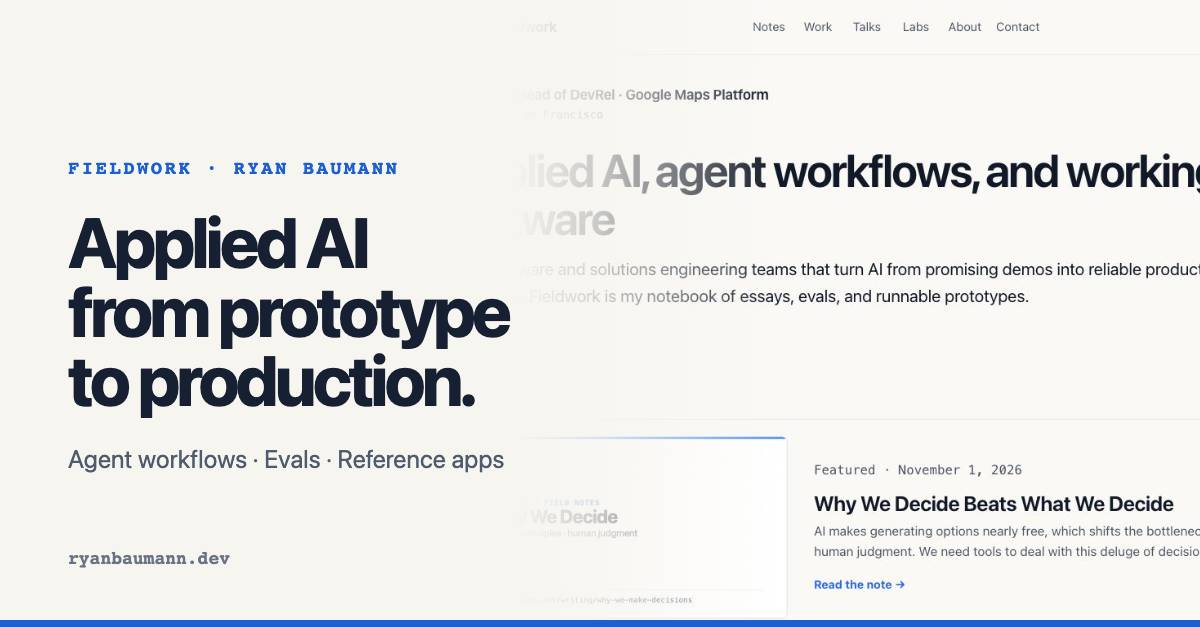
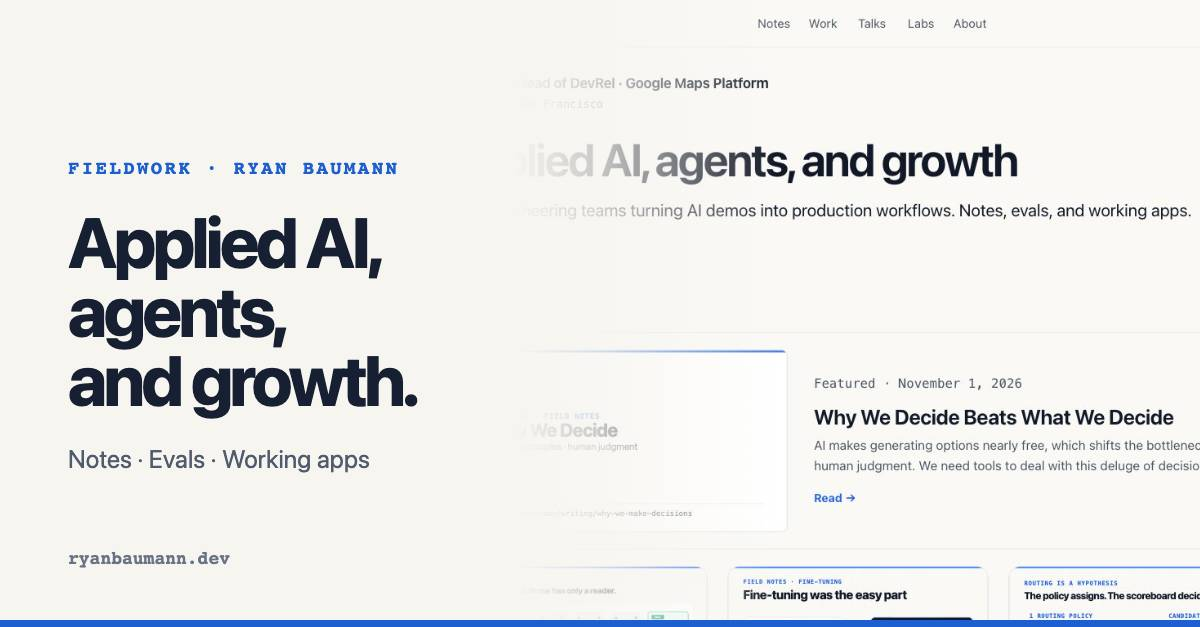
content(portfolio): tighten UI labels and simplify page chrome (#384)

diff --git a/portfolio/style.css b/portfolio/style.css
@@ -39,6 +39,18 @@
 
 * { box-sizing: border-box; }
 
+.sr-only {
+  position: absolute;
+  width: 1px;
+  height: 1px;
+  padding: 0;
+  margin: -1px;
+  overflow: hidden;
+  clip-path: inset(50%);
+  white-space: nowrap;
+  border: 0;
+}
+
 /* ---- skip link ---- */
 
 .skip-link {
@@ -179,7 +191,7 @@ img { max-width: 100%; height: auto; border-radius: 0.6rem; }
   grid-template-columns: auto minmax(0, 1fr) auto;
   align-items: center;
   gap: 0.75rem;
-  padding-block: 0.7rem;
+  padding-block: 0.4rem;
   background: color-mix(in srgb, var(--bg) 92%, transparent);
   backdrop-filter: blur(14px);
   border-bottom: 1px solid color-mix(in srgb, var(--line) 70%, transparent);
@@ -219,19 +231,19 @@ img { max-width: 100%; height: auto; border-radius: 0.6rem; }
 }
 .header-actions { display: flex; align-items: center; justify-content: flex-end; gap: 0.5rem; }
 
-main { padding-block: clamp(0.5rem, 2vw, 1.5rem) 2rem; }
+main { padding-block: clamp(0.5rem, 2vw, 1.25rem) 1.5rem; }
 main > section { margin-bottom: clamp(3rem, 6vw, 5.5rem); }
 
 .site-footer {
   display: flex;
   align-items: center;
   justify-content: space-between;
-  gap: 0.75rem 1rem;
+  gap: 0.5rem 1rem;
   flex-wrap: wrap;
   border-top: 1px solid var(--line);
-  padding-block: 1rem 2rem;
+  padding-block: 0.75rem 1.25rem;
   color: var(--faint);
-  font-size: 0.9rem;
+  font-size: 0.85rem;
 }
 .site-footer > p { margin: 0; }
 .footer-links { display: flex; align-items: center; gap: 0.25rem 0.9rem; flex-wrap: wrap; }
@@ -240,7 +252,7 @@ main > section { margin-bottom: clamp(3rem, 6vw, 5.5rem); }
   align-items: center;
   justify-content: center;
   min-height: 44px;
-  min-width: 28px;
+  min-width: 44px;
   padding-inline: 0.2rem;
   color: var(--muted);
   text-decoration: none;
@@ -475,37 +487,50 @@ main > section { margin-bottom: clamp(3rem, 6vw, 5.5rem); }
 .back a { display: inline-flex; align-items: center; min-height: 44px; text-decoration: none; color: var(--muted); }
 .back a:hover { color: var(--accent-ink); }
 
-/* ---- article colophon / AI disclosure ---- */
+/* ---- article footer (disclosure + share) ---- */
 
-.article-colophon {
-  margin: 2.5rem 0 1rem;
-  padding: 0.85rem 1.1rem;
-  border: 1px solid var(--line);
-  border-radius: 0.65rem;
-  background: var(--surface);
+.article-footer {
+  margin-top: 2rem;
+  padding-top: 1rem;
+  border-top: 1px solid var(--line);
+  display: flex;
+  flex-wrap: wrap;
+  align-items: center;
+  justify-content: space-between;
+  gap: 0.5rem 1.25rem;
 }
 .article-disclosure {
   margin: 0;
-  font-size: 0.86rem;
-  color: var(--muted);
-  line-height: 1.5;
+  font-size: 0.85rem;
+  color: var(--faint);
+  line-height: 1.45;
 }
-
-/* ---- share links ---- */
-
 .share-links {
   display: flex;
   align-items: center;
   flex-wrap: wrap;
-  gap: 0.5rem;
-  margin: 2rem 0 0.5rem;
-  padding-top: 1.5rem;
-  border-top: 1px solid var(--line);
+  gap: 0.75rem;
+  margin: 0;
 }
 .share-label {
   font-size: 0.85rem;
   font-weight: 600;
   color: var(--faint);
+}
+.share-link {
+  display: inline-flex;
+  align-items: center;
+  justify-content: center;
+  min-height: 44px;
+  min-width: 44px;
+  font-size: 0.86rem;
+  font-weight: 600;
+  color: var(--muted);
+  text-decoration: none;
+}
+.share-link:hover {
+  color: var(--accent-ink);
+  text-decoration: underline;
 }
 
 /* ---- email list + comments ---- */
@@ -514,12 +539,13 @@ main > section { margin-bottom: clamp(3rem, 6vw, 5.5rem); }
 .comments {
   width: 100%;
   max-width: var(--prose);
-  margin-top: 2.5rem;
-  padding-top: 1.75rem;
+  margin-top: 1.25rem;
+  padding-top: 1.1rem;
   border-top: 1px solid var(--line);
 }
-.subscribe p { color: var(--muted); max-width: var(--prose); }
-.subscribe-form { display: grid; gap: 0.35rem; margin: 1.1rem 0 0.75rem; }
+.subscribe h2 { font-size: 1.05rem; margin: 0 0 0.65rem; }
+.subscribe p { color: var(--muted); max-width: var(--prose); font-size: 0.9rem; }
+.subscribe-form { display: grid; gap: 0.35rem; margin: 0 0 0.55rem; }
 .subscribe-form label { color: var(--muted); font-weight: 650; font-size: 0.95rem; }
 .subscribe-controls { display: flex; flex-wrap: wrap; gap: 0.6rem; }
 .subscribe-controls input {
@@ -532,12 +558,26 @@ main > section { margin-bottom: clamp(3rem, 6vw, 5.5rem); }
   font: inherit;
   padding: 0.7rem 0.8rem;
 }
-.subscribe .section-note,
-.comments .section-note { margin-bottom: 0; }
+.subscribe .section-note { margin-bottom: 0; font-size: 0.85rem; color: var(--faint); }
+.comments-details summary {
+  display: inline-flex;
+  align-items: center;
+  min-height: 44px;
+  padding-inline: 0.15rem;
+  cursor: pointer;
+  font-weight: 650;
+  font-size: 0.95rem;
+  color: var(--ink);
+  list-style: none;
+}
+.comments-details summary::-webkit-details-marker { display: none; }
+.comments-details summary::before { content: "▸ "; color: var(--faint); margin-right: 0.35rem; }
+.comments-details[open] > summary::before { content: "▾ "; }
+.comments-details summary:hover { color: var(--accent-ink); text-decoration: underline; }
 .comments .giscus,
 .comments .giscus-frame { width: 100%; }
 .comments .giscus-frame { min-height: 0; border: 0; color-scheme: normal; }
-.comments .giscus { margin-top: 1.25rem; }
+.comments .giscus { margin-top: 1rem; }
 
 /* ---- states ---- */
 
@@ -918,7 +958,6 @@ main > section.hero { margin-bottom: clamp(0.5rem, 1.5vw, 1.5rem); }
      12px. The one-line rule is held by padding and min-width, not by
      shrinking type below readable size. Verify at 390px after changing. */
   .site-header nav a { min-width: 0; padding-inline: 0; font-size: clamp(0.75rem, 2.5vw, 0.78rem); }
-  .site-header nav a.nav-contact { display: none; }
   .header-actions { justify-self: end; gap: 0.35rem; }
   .theme-toggle { font-size: 1.1rem; }
   main { padding-top: 0.75rem; }

diff --git a/CHANGELOG.md b/CHANGELOG.md
@@ -4,6 +4,12 @@ All notable changes to this project will be documented in this file.
 
 ## [Unreleased]
 
+- **Bare-noun UI copy, hero/taste alignment, and compact shell/Notes-end chrome (`portfolio/`, `scripts/`, `.agents/skills/portfolio-design/`)**:
+  - Updated `portfolio/content/site.json` (`headerBrand: "Fieldwork"`, `heroHeadline: "Applied AI, agents, and growth"`, `intro`, `description`, `positioning`, `answerEngineSummary`) and `scripts/social-cards.mjs` (`home.jpg`, `contact.jpg`, plus refreshed `portfolio/static/previews/fieldwork.{jpg,webp}`).
+  - Replaced padded link/CTA/heading phrasing across `portfolio/build.mjs` and `portfolio/content/pages/{about,resume,contact,contact-success,subscribed,privacy}.md` with concrete bare nouns (`Resume`, `About`, `Contact`, `Notes`, `Work`, `All labs`, `Open →`, `Read →`, `Topic`, `Message`, `Send`) and removed redundant page eyebrows.
+  - Simplified header, footer, and Notes end-of-page chrome in `portfolio/build.mjs` and `portfolio/style.css`: standardized primary nav on 5 reader links (`Notes · Work · Talks · Labs · About`) across desktop and mobile, trimmed the footer to `© <year> Ryan Baumann` plus 6 links (`Contact · Resume · GitHub · LinkedIn · RSS · Privacy`), merged the AI disclosure and text `Share` links into one `.article-footer` row, removed the duplicate bottom `← All notes` link, tightened `.subscribe`, and collapsed giscus `Comments` inside a native `<details class="comments-details">` element that loads `giscus.app/client.js` only on first open.
+  - Updated `.agents/skills/portfolio-design/SKILL.md` and `portfolio-writing` to encode the bare-noun label rule and simplified shell/Notes-end contract; updated `portfolio/test/build.test.mjs`.
+
 - **Applied AI & cross-industry solutions positioning, homepage card rebalance, and voice alignment (`portfolio/`, `apps.json`, `gateway/`, `scripts/`, `docs/PORTFOLIO_EVIDENCE_LEDGER.md`, `evals/contact-qualifier/`)**:
   - Updated site positioning in `portfolio/content/site.json`, `portfolio/build.mjs` (`SECTION_DESCRIPTIONS`, Schema.org `Person.knowsAbout`, homepage closing CTA, contact form intents), `portfolio/content/pages/{about,resume,contact}.md`, `README.md`, `portfolio/README.md`, and `docs/PORTFOLIO_EVIDENCE_LEDGER.md` to use `Head of DevRel · Google Maps Platform` and highlight 15+ years of software, product, and solutions engineering across applied AI workflows, manufacturing, financial services and insurance, logistics, and the public sector.
   - Updated `loadCollection()` in `portfolio/build.mjs` to break equal/empty `date` ties by ascending `meta.order` so dateless `work` entries sort deterministically across `/` and `/work/`; rebalanced `portfolio/content/work/*.md` orders to feature `Code Assist MCP`, `Agentic Eval Suite`, and `Intelligent Product Essentials` on the homepage, and reordered `apps.json` so `Labs` leads with `Atlas: Real-World Reasoning Agent`, `Infographic Agent`, `Hairstyle AI Studio`, and `Strava 3D Explorer`.

diff --git a/.agents/skills/portfolio-design/SKILL.md b/.agents/skills/portfolio-design/SKILL.md
@@ -34,12 +34,13 @@ description: How Ryan designs. Use before changing style.css, page layouts in bu
 - **Artifact cards**: generated SVGs (`scripts/artifact-cards.mjs`) for entries with no honest screenshot to show. State only facts already in the entry copy.
 - **Eyebrows** (`.eyebrow`) label every section in uppercase accent text.
 - **Empty states** (`.empty-state`) are designed, not apologetic: sections ship before their content does (see the writing section).
-- **Subscribe** (`.subscribe`) and **Comments** (`.comments`): quiet bordered-top sections at the end of writing pages. The subscribe form is a plain POST to `/api/subscribe` (no client JS); comments are the sanctioned giscus embed described in principle 2. See `docs/EMAIL_LIST_AND_COMMENTS.md`.
+- **Article footer, subscribe, and comments**: Detail pages end with a compact `.article-footer` horizontal row pairing the inline AI copyediting disclosure with text `Share` links (no boxed card). On Field Notes, keep `.subscribe` compact (`h2`, email input with `.sr-only` label, submit button, one-line privacy note, plain POST to `/api/subscribe`) and keep `.comments` inside a native `<details class="comments-details">` disclosure that loads giscus (`commentsSection` in `build.mjs`) only when opened so default page loads stay free of third-party iframe requests. See `docs/EMAIL_LIST_AND_COMMENTS.md`.
 
 ## Accessibility
 
 - Semantic landmarks (`header`, `main`, `footer`, `nav` with `aria-label`).
-- Keep primary navigation to reader destinations. Resume belongs under About, not in the header. On mobile, keep Fieldwork, Notes, Work, Talks, Labs, About, and the theme control on one non-scrolling line; Contact remains available in the page and footer.
+- Keep primary navigation to 5 reader destinations across desktop and mobile (`Notes · Work · Talks · Labs · About`) with brand `Fieldwork` and the theme control on one non-scrolling line. `Resume` belongs under `About` and in the compact 6-link global footer (`Contact · Resume · GitHub · LinkedIn · RSS · Privacy`).
+- Say what it actually is: avoid redundant eyebrows that repeat a page title or heading, and use concrete bare nouns for nav items, links, and button labels (`Resume`, `Contact`, `Open`, `Read`, `Send`) instead of padded verb-article wrappers.
 - Treat a section title and its explanatory subhead as one unit: keep their gap compact, then use the larger spacing before cards or the next section.
 - `aria-current="page"` on active nav.
 - Visible `:focus-visible` ring on everything interactive.

diff --git a/LEARNINGS.md b/LEARNINGS.md
@@ -2,6 +2,16 @@
 
 This log captures durable lessons discovered while building and maintaining the portfolio and demo lab, keeping the root instructions lean.
 
+## 2026-11-19 - Lazy giscus loading inside `<details>` keeps CSP hashes static and zero-dependency
+
+Context: Collapsing `Comments` at the bottom of Field Notes pages inside `<details class="comments-details">` so Notes pages end cleanly without forcing third-party giscus iframe height or network traffic on initial load.
+
+Learning: Listening to the native `toggle` event on `<details class="comments-details">` and appending the giscus `<script>` once (`if (loaded) return;`) when `details.open` becomes `true` preserves exact CSP compatibility because `portfolio/lib/csp.mjs` hashes the static inline `<script>` body at build time (`inlineScriptHashes(html)`), while zero third-party requests run until a reader opens comments.
+
+Evidence: `portfolio/test/build.test.mjs` verified `<details class="comments-details">` ordering after `#subscribe-title` and before `<footer>`, and `node scripts/build-local.mjs && node scripts/smoke.mjs` verified per-page `csp-hashes.json` manifest generation.
+
+Use next time: Prefer `<details>` + a static one-shot `toggle` loader for optional third-party embeds so CSP manifests remain deterministic and default page loads stay lean.
+
 ## 2026-11-19 - `loadCollection()` needed a `meta.order` tie-breaker for dateless `work` entries
 
 Context: Rebalancing homepage `Selected work` cards by editing `order` in `portfolio/content/work/*.md` while preserving reverse-chronological sorting for `writing` and `talks`.

diff --git a/portfolio/content/pages/contact.md b/portfolio/content/pages/contact.md
@@ -1,11 +1,10 @@
 ---
 title: Contact
-summary: What are you building, and what is in the way?
-eyebrow: Contact
+summary: Contact Ryan Baumann about applied AI, agents, essays, or speaking.
 socialImage: /social/contact.jpg
-shareTitle: Start a Conversation With Ryan Baumann
-shareSummary: Start with the thing you are building and the friction in the way.
-shareImageAlt: Ryan Baumann beside an invitation to start with the thing you are trying to build.
+shareTitle: Contact Ryan Baumann
+shareSummary: What are you building, and what is in the way?
+shareImageAlt: Ryan Baumann beside the Contact card.
 ---
 
-If you're landing AI workflows in production, building agent systems, or want to talk through an essay or speaking event, send me a note. I'm not available for outside consulting while employed at Google.
+If you're landing AI workflows in production, building agent systems, or want to talk through an essay or speaking event, reach out below. I'm not available for outside consulting while employed at Google.

diff --git a/portfolio/content/pages/about.md b/portfolio/content/pages/about.md
@@ -1,6 +1,5 @@
 ---
 title: About
-eyebrow: Background
 summary: Ryan Baumann leads software, product, and solutions engineering teams building applied AI workflows and platforms.
 image: /img/ryan-baumann-profile.jpg
 imageAlt: Headshot of Ryan Baumann wearing a blue shirt.
@@ -20,4 +19,4 @@ Before this role, I spent a decade building industry solutions and customer-faci
 
 I studied mechanical engineering at the University of Wisconsin-Madison, but before writing software, I raced professionally for Trek-Livestrong and Bahati Foundation. Racing taught me to pace long efforts, measure the right signal, and keep looking for the next useful improvement. I still love the outdoors and pushing myself gravel riding and trail running.
 
-[View the resume](/resume/) · [Send a note](/contact/)
+[Resume](/resume/) · [Contact](/contact/)

diff --git a/portfolio/content/pages/resume.md b/portfolio/content/pages/resume.md
@@ -1,7 +1,6 @@
 ---
 title: Resume
 summary: Software and solutions engineering leadership across applied AI, 0-to-1 products, and enterprise workflows.
-eyebrow: Experience
 socialImage: /social/resume.jpg
 shareTitle: Ryan Baumann Resume
 shareSummary: Fifteen years turning new technical capabilities into working systems across Google, Instabase, Mapbox, and Caterpillar.
@@ -30,4 +29,4 @@ I lead software, product, and solutions engineering teams that turn emerging cap
 
 Before software, I raced professionally for Trek-Livestrong and Bahati Foundation.
 
-[Read the full background](/about/) · [Send a note](/contact/)
+[About](/about/) · [Contact](/contact/)

diff --git a/portfolio/content/pages/subscribed.md b/portfolio/content/pages/subscribed.md
@@ -1,10 +1,9 @@
 ---
-title: You're on the list
-eyebrow: Email list
+title: Subscribed
 summary: Subscription to Ryan Baumann's notes confirmed.
 noindex: true
 ---
 
-Thanks, you're subscribed. You'll get occasional updates when a new note, talk, or Lab goes live. You can unsubscribe in any email.
+You'll get an email when a new note, talk, or Lab goes live. Unsubscribe anytime.
 
-[Return home](/) or keep reading [Notes](/writing/).
+[Home](/) · [Notes](/writing/)

diff --git a/portfolio/content/pages/contact-success.md b/portfolio/content/pages/contact-success.md
@@ -1,11 +1,10 @@
 ---
 title: Message sent
-eyebrow: Contact
 summary: Ryan Baumann received your message.
 noindex: true
 contactDelivery: success
 ---
 
-Thanks. I have your note and enough context to reply.
+Thanks. Got your note.
 
-[Return home](/) or keep exploring [the work](/work/).
+[Home](/) · [Work](/work/)

diff --git a/portfolio/content/pages/privacy.md b/portfolio/content/pages/privacy.md
@@ -1,6 +1,5 @@
 ---
 title: Privacy
-eyebrow: Privacy
 summary: How Fieldwork handles analytics, contact details, email subscriptions, data from Labs, and third-party services.
 ---
 
